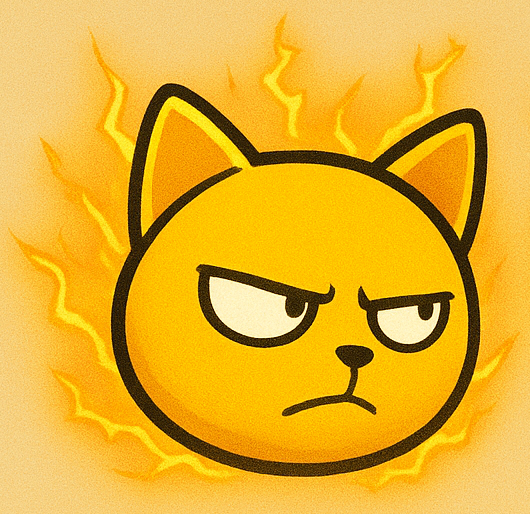
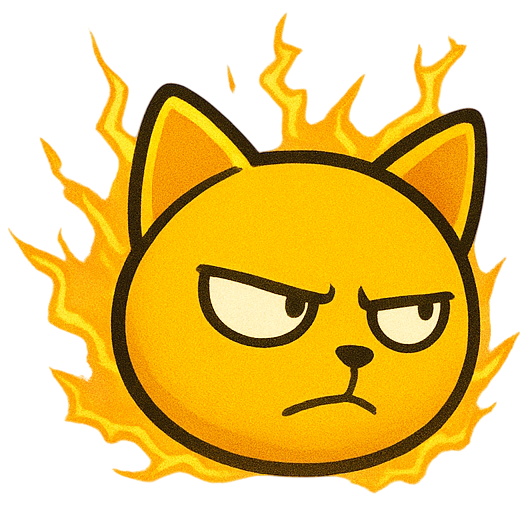
Add bg island

diff --git a/core/src/main/java/io/github/cogdanh2k3/DataGame/KingdomDatabase.kt b/core/src/main/java/io/github/cogdanh2k3/DataGame/KingdomDatabase.kt
@@ -2,10 +2,10 @@ package io.github.cogdanh2k3.DataGame
 
 object KingdomDatabase {
     val kingdoms = listOf(
-        KingdomData("Volcano Realm", "Pikachu Hắc Hóa", "Islands/island_fire.png", "Boss/boss_dora.png", unlocked = true),
-        KingdomData("Cemetery Zone", "Zombie PVZ", "Islands/island_fire.png", "Boss/boss_dora.png"),
-        KingdomData("Robo Bay", "Mèo Máy Hắc Hóa", "Islands/island_fire.png", "Boss/boss_dora.png"),
-        KingdomData("Frieza Empire", "Frieza", "Islands/island_fire.png", "Boss/boss_dora.png"),
-        KingdomData("Dark Meme Sea", "Meme Cat Hắc Hóa", "Islands/island_fire.png", "Boss/boss_dora.png")
+        KingdomData("Volcano Realm", "Pikachu Hắc Hóa", "Islands/fireisland.png", "Boss/pikaBoss.png", unlocked = true),
+        KingdomData("Cemetery Zone", "Zombie PVZ", "Islands/pvzisland.png", "Boss/boss_pvz.png"),
+        KingdomData("Robo Bay", "Mèo Máy Hắc Hóa", "Islands/iceisland.png", "Boss/boss_dora.png"),
+        KingdomData("Frieza Empire", "Frieza", "Islands/dbisland.png", "Boss/boss_frize.png"),
+        KingdomData("Dark Meme Sea", "Meme Cat Hắc Hóa", "Islands/catisland.png", "Boss/boss_memecat.png")
     )
 }

diff --git a/core/src/main/java/io/github/cogdanh2k3/screens/KingdomScreen.kt b/core/src/main/java/io/github/cogdanh2k3/screens/KingdomScreen.kt
@@ -27,7 +27,7 @@ class KingdomScreen(val game: Main) : Screen {
     val currentUnlockedIndex = SaveManager.gameSave.int_levelBoss
     override fun show() {
         Gdx.input.inputProcessor = stage
-        val bg = Image(Texture("UI/kingdom_bg.png"))
+        val bg = Image(Texture("BG/background.png"))
         bg.setFillParent(true)
         stage.addActor(bg)
 
